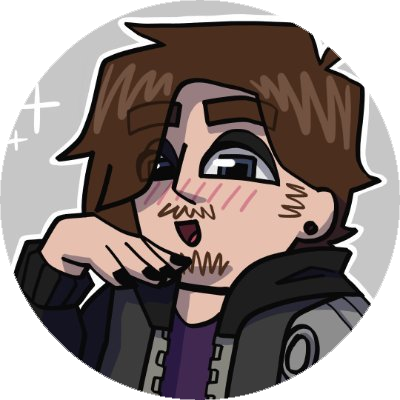
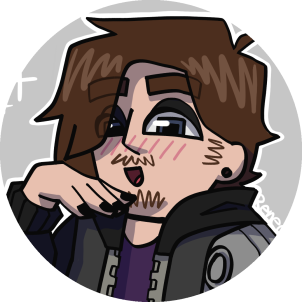
Website updated.

diff --git a/enquires.html b/enquires.html
@@ -72,7 +72,7 @@
 
                 <div id="enquire_post">
 
-                    <img src="images/website/image_cost.png" alt="A breakdown of artwork costs.">
+                    <img src="images/website/image_cost.jpg" alt="A breakdown of artwork costs.">
 
                 </div>
 
